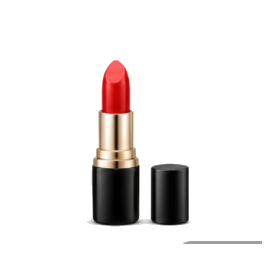
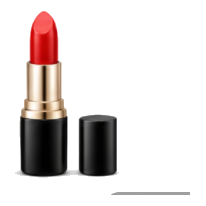
Finish the category tiles, and fix two onboarding pages that had no picture
Food delivery, from abroad and daily goods were the three tiles still on line
glyphs; all ten carry a photograph now. The car was re-supplied and refreshed
with it.

All twelve are re-cut with one more step than before: after the studio backdrop
is flooded out from the border, the result is cropped to what is left and only
then padded to a square. Without the crop a wide illustration and a tall photo
filled their tiles to very different degrees — the shirt sat large and the
basket small — because each was squared around its original framing rather
than around its subject. The grocery basket is still the shortest of the ten,
being much wider than tall; a squarer crop of it would sit better.

Onboarding pages 1 and 4 drew an empty grey circle. They asked for
products/nike-zoomx.png and banners/lamp-room.png, both of which went when the
blank placeholder files did — a reference I should have followed up then. They
point at photographs that exist now, on Android and iOS alike, and media/
holds nothing that nothing asks for.

Changed region(s): [[0.0583, 0.0291, 0.699, 0.8738], [0.5243, 0.932, 0.932, 0.9612], [0.6699, 0.8738, 0.9612, 0.9029]]

diff --git a/android/app/src/main/java/uz/minibozor/ui/onboarding/OnboardingScreen.kt b/android/app/src/main/java/uz/minibozor/ui/onboarding/OnboardingScreen.kt
@@ -56,7 +56,7 @@ private fun pages(mediaBase: String) = listOf(
     OnboardingPage(
         title = stringResource(R.string.onboarding_1_title),
         body = stringResource(R.string.onboarding_1_body),
-        image = "$mediaBase/products/nike-zoomx.png",
+        image = "$mediaBase/products/jordan1-low-white.png",
         chip = stringResource(R.string.onboarding_1_chip),
     ),
     OnboardingPage(
@@ -74,7 +74,7 @@ private fun pages(mediaBase: String) = listOf(
     OnboardingPage(
         title = stringResource(R.string.onboarding_4_title),
         body = stringResource(R.string.onboarding_4_body),
-        image = "$mediaBase/banners/lamp-room.png",
+        image = "$mediaBase/products/lamp.png",
         chip = stringResource(R.string.onboarding_4_chip),
     ),
 )

diff --git a/ios/MiniBozor/Features/Onboarding/OnboardingView.swift b/ios/MiniBozor/Features/Onboarding/OnboardingView.swift
@@ -19,7 +19,7 @@ struct OnboardingView: View {
             title: "Ertaga yetib keladi",
             body: "Toshkent bo'ylab bir kunda, viloyatlarga 2–3 kunda. "
                 + "Kuryerni real vaqtda kuzatib boring.",
-            image: "products/nike-zoomx.png",
+            image: "products/jordan1-low-white.png",
             chip: "1 kunda yetkazish"
         ),
         OnboardingPage(
@@ -39,7 +39,7 @@ struct OnboardingView: View {
             title: "Xarid qilishni boshlang",
             body: "Kunlik yetkazish, oson qaytarish va bir marta kiritiladigan to'lov — "
                 + "hammasi bir ilovada.",
-            image: "banners/lamp-room.png",
+            image: "products/lamp.png",
             chip: nil
         ),
     ] }

diff --git a/backend/app/seed.py b/backend/app/seed.py
@@ -77,6 +77,9 @@ CATEGORY_IMAGES = {
     "maktab-bozori": "categories/maktab-bozori.png",
     "sport": "categories/sport.png",
     "gozallik": "categories/gozallik.png",
+    "taom-yetkazish": "categories/taom-yetkazish.png",
+    "chet-eldan": "categories/chet-eldan.png",
+    "kundalik": "categories/kundalik.png",
 }
 
 ROOT_CATEGORIES = [
